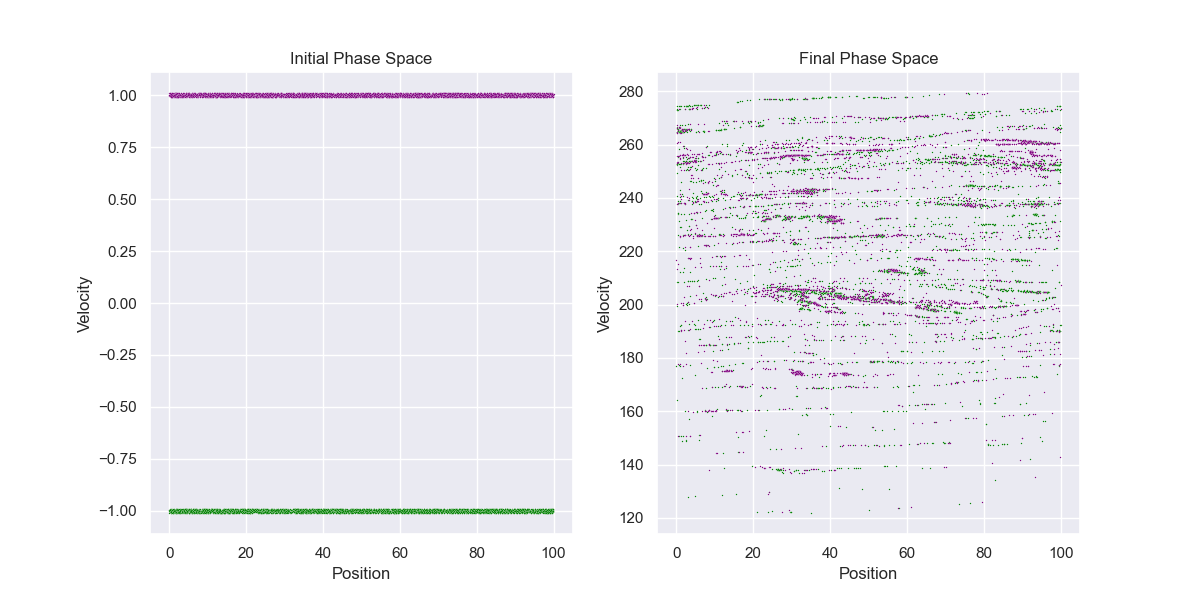
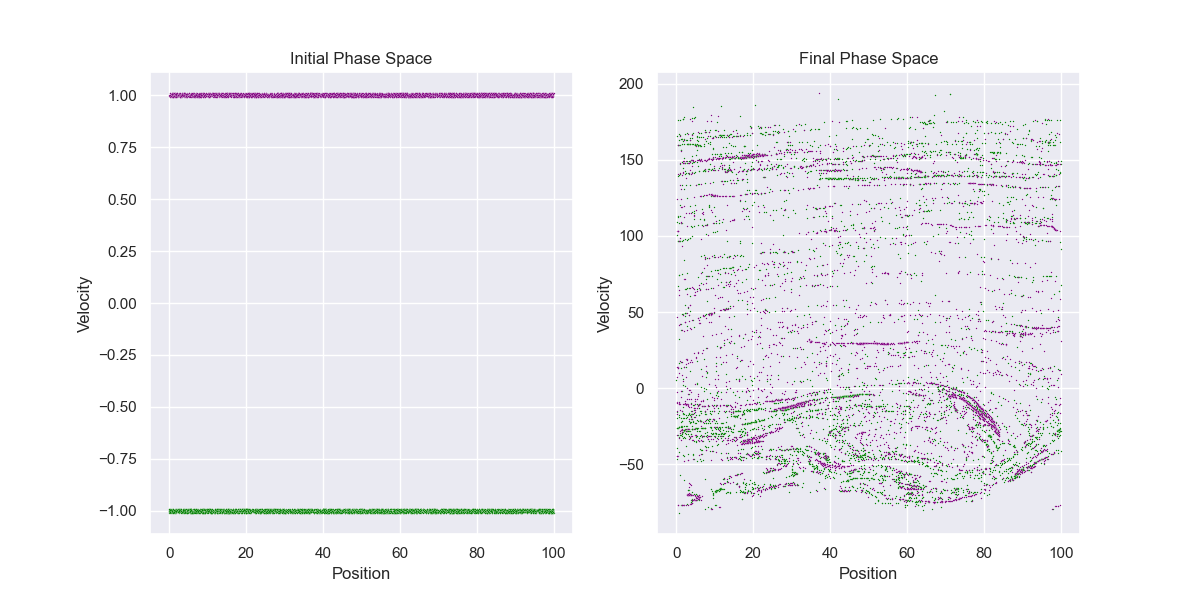
Tests and velocity repartition logic

diff --git a/Program_1D/Simulation.py b/Program_1D/Simulation.py
@@ -56,6 +56,7 @@ class Simulation:
         self.particle_charge = None
         self.particles_number = None
         self.potential_array = None
+        self.velocity_repartition = None
         self.parameters = parameters
         self.dx = self.parameters['domain_size'] / self.parameters['cells_number']
         self.dt = None
@@ -81,6 +82,7 @@ class Simulation:
         self.iterations_number = self.parameters['iterations_number']
         self.tolerance = self.parameters['tolerance']
         self.max_iteration_number_potential = self.parameters['max_iteration_number_potential']
+        self.velocity_repartition = self.parameters['velocity_repartition']
 
     def init_arrays(self):
         """
@@ -95,16 +97,21 @@ class Simulation:
 
         self.positions = np.random.uniform(0, self.domain_size, size=self.particles_number)
         self.potential_array = np.zeros(self.cells_number)
-
-        negative_velocities = (-np.ones(self.particles_number // 2) * self.initial_velocity +
-                               np.random.uniform(-self.max_initial_velocity_deviation,
-                                                 self.max_initial_velocity_deviation,
-                                                 size=self.particles_number // 2))
-        positive_velocities = (np.ones(self.particles_number // 2) * self.initial_velocity +
-                               np.random.uniform(-self.max_initial_velocity_deviation,
-                                                 self.max_initial_velocity_deviation,
-                                                 size=self.particles_number // 2))
-        self.velocities = np.concatenate((negative_velocities, positive_velocities))
+        
+        if(self.velocity_repartition == "2streams"):
+            negative_velocities = (-np.ones(self.particles_number // 2) * self.initial_velocity +
+                                np.random.uniform(-self.max_initial_velocity_deviation,
+                                                    self.max_initial_velocity_deviation,
+                                                    size=self.particles_number // 2))
+            positive_velocities = (np.ones(self.particles_number // 2) * self.initial_velocity +
+                                np.random.uniform(-self.max_initial_velocity_deviation,
+                                                    self.max_initial_velocity_deviation,
+                                                    size=self.particles_number // 2))
+            self.velocities = np.concatenate((negative_velocities, positive_velocities))
+        elif(self.velocity_repartition == "random"):
+            self.velocities = np.random.uniform(-self.initial_velocity, self.initial_velocity, size=self.particles_number)
+        elif(self.velocity_repartition == "normal"):
+            self.velocities = np.random.normal(0, self.initial_velocity, size=self.particles_number)
 
         position_df = pd.DataFrame([self.positions])
         position_df.to_csv('./OutputFiles/positions.csv', index=False)
@@ -261,8 +268,8 @@ class Simulation:
             charge_density = self.compute_charge_density()  # WORKS
             # self.compute_potential_matrix_inversion(charge_density)
             self.compute_potential_relaxation(charge_density)
-            # self.compute_potential_Fourier(charge_density
-            # potential = self.compute_potential_jacobi(charge_density
+            # self.compute_potential_Fourier(charge_density)
+            # potential = self.compute_potential_jacobi(charge_density)
             # self.potential_array = np.vstack((self.potential_array, potential))
             electric_field = self.compute_electric_field()
             particle_electric_field = self.compute_particle_electric_field(electric_field)

diff --git a/Program_1D/Visualizer.py b/Program_1D/Visualizer.py
@@ -54,40 +54,3 @@ class Visualizer:
         ax[1].set_ylabel('Velocity')
         
         plt.savefig(FileHelper.create_plot_filename())
-
-    @staticmethod
-    def animate_results():
-        """
-        Animates the simulation results stored in 'results.npz'.
-
-        # Args:
-            - `file_path (str, optionnal)`: Path to the file containing simulation results. Default is 'results.npz'.
-
-        """
-        positions = pd.read_csv('./OutputFiles/positions.csv')
-        velocities = pd.read_csv('./OutputFiles/velocities.csv')
-        dt = pd.read_csv('./OutputFiles/dt.csv')
-
-        # Initialize the figure
-        fig, ax = plt.subplots()
-        scatter, = ax.plot([], [], 'ro', markersize=1)
-
-        # Set axis limits
-
-        # Initialization function for the animation
-        def init():
-            ax.set_xlim(0., 1.)
-            ax.set_ylim(-2, 2)
-            return scatter,
-
-        # Animation function
-        def update(frame):
-            x = positions.iloc[frame+1, :]
-            y = velocities.iloc[frame+1, :]
-            scatter.set_data(x, y)
-            return scatter,
-
-        # Create the animation
-        num_frames = len(dt)
-        animation = FuncAnimation(fig, update, frames=num_frames, init_func=init, blit=True)
-        animation.save('Plots/animation.gif', writer='PillowWriter', fps=120)

diff --git a/Program_1D/FileHelper.py b/Program_1D/FileHelper.py
@@ -16,6 +16,12 @@ class FileHelper:
         plot_filename += f"DS_{parameters['domain_size']}_"
         plot_filename += f"CN_{parameters['cells_number']}_"
         plot_filename += f"V_{parameters['initial_velocity']}_"
+        if(parameters['velocity_repartition'] == 'random'):
+            plot_filename += f"VR_R"
+        elif(parameters['velocity_repartition'] == 'normal'):
+            plot_filename += f"VR_N"
+        elif(parameters['velocity_repartition'] == '2streams'):
+            plot_filename += f"VR_2S"
         plot_filename += f"IN_{thousands_iterations}k_"
-        
+        plot_filename = plot_filename.replace('.', '-')
         return plot_filename

diff --git a/Program_1D/MainProgram.py b/Program_1D/MainProgram.py
@@ -36,7 +36,6 @@ class MainProgram:
         sim = Simulation(self.parameters)
         sim.run()
         Visualizer.plot_phase_space()
-        #Visualizer.animate_results()
 
 
 if __name__ == '__main__':
